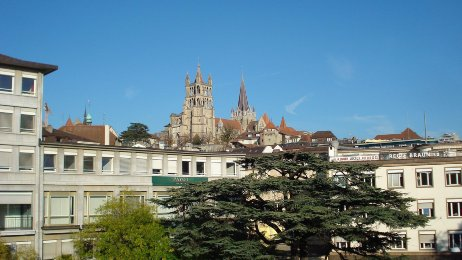
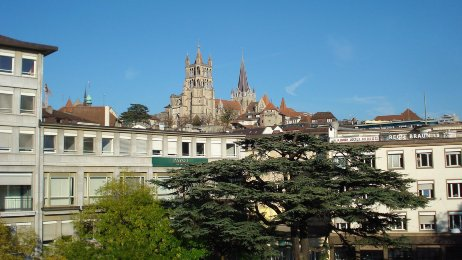
image commit

diff --git a/chamber/discover.html b/chamber/discover.html
@@ -9,7 +9,6 @@
     />
     <title>Geneva First Chamber of Commerce</title>
     <script src="scripts/main.js" defer></script>
-    <script src="scripts/windchill.js" defer></script>
     <link rel="shortcut icon" href="favicon.ico" />
     <link rel="stylesheet" href="styles/small.css" />
     <link rel="stylesheet" href="styles/medium.css" />
@@ -88,13 +87,13 @@
         </h2>
       </div>
     </header>
-    <main>
+    <main class="discoverPage">
       <div class="section discover">
         <picture>
-          <img src="images/lausanneSmall.jpg" alt="village" />
+          <source media="(max-width:699px)" srcset="images/lausanneSmall.jpg" />
+          <source media="(max-width:999px)" srcset="images/lausanneMedium.jpg" />
+          <img src="images/lausanneLarge.jpg" alt="village" />
         </picture>
-      </div>
-      <div class="section">
         <p>
           Lausanne is the capital and largest city of the Swiss canton of Vaud.
           It is a hilly city, situated on the shores of Lake Geneva, about
@@ -104,28 +103,15 @@
           neighbour. The municipality of Lausanne has a population of about
           140,000, making it the fourth largest city in Switzerland after Basel,
           Geneva, and Zurich, with the entire agglomeration area having about
-          420,000 inhabitants (as of January 2019). The metropolitan area of
-          Lausanne-Geneva (including Vevey-Montreux, Yverdon-les-Bains, Valais
-          and foreign parts), commonly designated as Arc lémanique was over 1.3
-          million inhabitants in 2017 and is the fastest growing in Switzerland.
-          Initially a Celtic and Roman settlement on the shores of the lake,
-          Lausanne became a town at the foot of Notre Dame, a cathedral built in
-          the 12th century. In the 20th century, Lausanne became a focus of
-          international sport, hosting the International Olympic Committee
-          (which has recognized the city as the "Olympic Capital" since 1994),
-          the Court of Arbitration for Sport and some 55 international sport
-          associations. It lies in a noted wine-growing region. The city has a
-          28-station metro system, making it the smallest city in the world to
-          have a rapid transit system. Lausanne hosted the 2020 Winter Youth
-          Olympics.
+          420,000 inhabitants (as of January 2019).
         </p>
       </div>
       <div class="section discover">
         <picture>
-          <img src="images/cathedralSmall.jpg" alt="cathedral" />
+          <source media="(max-width:699px)" srcset="images/cathedralSmall.jpg" />
+          <source media="(max-width:999px)" srcset="images/cathedralMedium.jpg" />
+          <img src="images/cathedralLarge.jpg" alt="cathedral" />
         </picture>
-      </div>
-      <div class="section">
         <p>
           The Cathedral of Notre Dame of Lausanne is a church located in the
           city of Lausanne, in the canton of Vaud in Switzerland. It belongs to
@@ -135,19 +121,15 @@
           master mason restarted construction until 1215. Finally a third
           engineer, Jean Cotereel, completed the majority of the existing
           cathedral including a porch, and two towers, one of which is the
-          current day belfry. The other tower was never completed. The cathedral
-          was consecrated and dedicated to Our Lady in 1275 by Pope Gregory X,
-          Rudolph of Habsburg, and the bishop of Lausanne at the time, Guillaume
-          of Champvent. The medieval architect Villard de Honnecourt drew the
-          rose window of the south transept in his sketchbook in 1270.
+          current day belfry. The other tower was never completed.
         </p>
       </div>
       <div class="section discover">
         <picture>
-          <img src="images/ferrisWheelSmall.jpg" alt="ferrisWheel" />
+          <source media="(max-width:699px)" srcset="images/ferrisWheelSmall.jpg" />
+          <source media="(max-width:999px)" srcset="images/ferrisWheelMedium.jpg" />
+          <img src="images/ferrisWheelLarge.jpg" alt="ferrisWheel" />
         </picture>
-      </div>
-      <div class="section">
         <p>
           The Jardin anglais (literally "English garden") is an urban park in
           Geneva, Switzerland, situated at the location of an ancient harbor and
@@ -162,10 +144,10 @@
       </div>
       <div class="section discover">
         <picture>
-          <img src="images/fountainSmall.jpg" alt="fountain" />
+          <source media="(max-width:699px)" srcset="images/fountainSmall.jpg" />
+          <source media="(max-width:999px)" srcset="images/fountainMedium.jpg" />
+          <img src="images/fountainLarge.jpg" alt="fountain" />
         </picture>
-      </div>
-      <div class="section">
         <p>
           The Jet d'Eau (French, Water-Jet) is a large fountain in Geneva,
           Switzerland and is one of the city's most famous landmarks, being
@@ -176,21 +158,15 @@
           an altitude of ten kilometres (33,000 ft). Five hundred litres (130 US
           gal) of water per second are jetted to an altitude of 140 metres (460
           ft) by two 500 kW pumps, operating at 2,400 V, consuming one megawatt
-          of electricity (3,000,000 KWh and costing 510,000 CHF per year). The
-          water leaves the ten-centimetre (4 in) nozzle at a speed of 200 km/h
-          (55 m/s). At any given moment, there are about 7,000 L (1,800 US gal)
-          of water in the air. Unsuspecting visitors to the fountain—which can
-          be reached via a stone jetty from the left bank of the lake—may be
-          surprised to find themselves drenched after a slight change in wind
-          direction.
+          of electricity (3,000,000 KWh and costing 510,000 CHF per year).
         </p>
       </div>
       <div class="section discover">
         <picture>
-          <img src="images/gardenSmall.jpg" alt="garden" />
+          <source media="(max-width:699px)" srcset="images/gardenSmall.jpg" />
+          <source media="(max-width:999px)" srcset="images/gardenMedium.jpg" />
+          <img src="images/gardenLarge.jpg" alt="garden" />
         </picture>
-      </div>
-      <div class="section">
         <p>
           The Cantonal Botanical Museum and Gardens in the Canton of Vaud,
           Switzerland, comprises the museum and botanical garden in Lausanne, as
@@ -204,10 +180,10 @@
       </div>
       <div class="section discover">
         <picture>
-          <img src="images/trainSmall.jpg" alt="train" />
+          <source media="(max-width:699px)" srcset="images/trainSmall.jpg" />
+          <source media="(max-width:999px)" srcset="images/trainMedium.jpg" />
+          <img src="images/trainLarge.jpg" alt="train" />
         </picture>
-      </div>
-      <div class="section">
         <p>
           Lausanne railway station Is the main intercity and regional railway
           station for the city of Lausanne, Vaud, Switzerland. It is often known
@@ -217,12 +193,7 @@
           passenger trains are available to a wide variety of destinations
           across the country. Passenger trains are primarily run by Swiss
           Federal Railways (SBB CFF FFS), with additional international trains
-          run by companies from neighbouring France (TGV Lyria). There is also a
-          network of local services from Lausanne, primarily as part of the RER
-          Vaud, and platforms for line 2 of the Lausanne Métro. The metro
-          station, Lausanne-Gare, was opened on 27 October 2008. Passenger
-          facilities include Bureau de change, left luggage and lost property
-          offices.
+          run by companies from neighbouring France (TGV Lyria).
         </p>
       </div>
     </main>

diff --git a/chamber/styles/medium.css b/chamber/styles/medium.css
@@ -9,7 +9,8 @@
   main,
   .main,
   .spots,
-  .footer {
+  .footer,
+  .discover picture {
     display: grid;
   }
 
@@ -17,11 +18,6 @@
   .spots,
   .main {
     column-gap: 10px;
-  }
-
-  main,
-  .main {
-    grid-template-columns: repeat(3, 1fr);
   }
 
   /* id selector */
@@ -41,13 +37,19 @@
     grid-column: 1/4;
   }
   /* class selector */
+  .home,
+  .main {
+    grid-template-columns: repeat(3, 1fr);
+  }
+
   .head {
     grid-template-columns: 140px 1fr 50px 50px 100px;
   }
 
   .hero picture img,
   .join,
-  .spot3 {
+  .spot3,
+  .discover picture img {
     width: 100%;
   }
 

diff --git a/chamber/styles/large.css b/chamber/styles/large.css
@@ -10,10 +10,6 @@
     margin-left: 5px;
   }
 
-  main {
-    grid-template-columns: 276px 1fr 276px;
-  }
-
   /* id selectors */
   #modified {
     grid-row: 1;
@@ -23,6 +19,10 @@
   }
 
   /* class selectors */
+  .home {
+    grid-template-columns: 276px 1fr 276px;
+  }
+
   .head {
     grid-template-columns: 150px 240px 1fr 50px 50px 6px;
   }

diff --git a/chamber/styles/small.css b/chamber/styles/small.css
@@ -48,7 +48,8 @@ header picture,
 .spots,
 .spot1,
 .spot2,
-.spot3 {
+.spot3,
+.discover picture img {
   padding: 10px;
 }
 
@@ -79,7 +80,8 @@ header svg,
 #today,
 .title,
 .main,
-.climate h1 {
+.climate h1,
+.discover picture img {
   margin: auto;
 }
 

diff --git a/chamber/index.html b/chamber/index.html
@@ -88,7 +88,7 @@
         </h2>
       </div>
     </header>
-    <main>
+    <main class="home">
       <div class="section hero">
         <h2>Geneva First Chamber of Commerce</h2>
         <picture>
